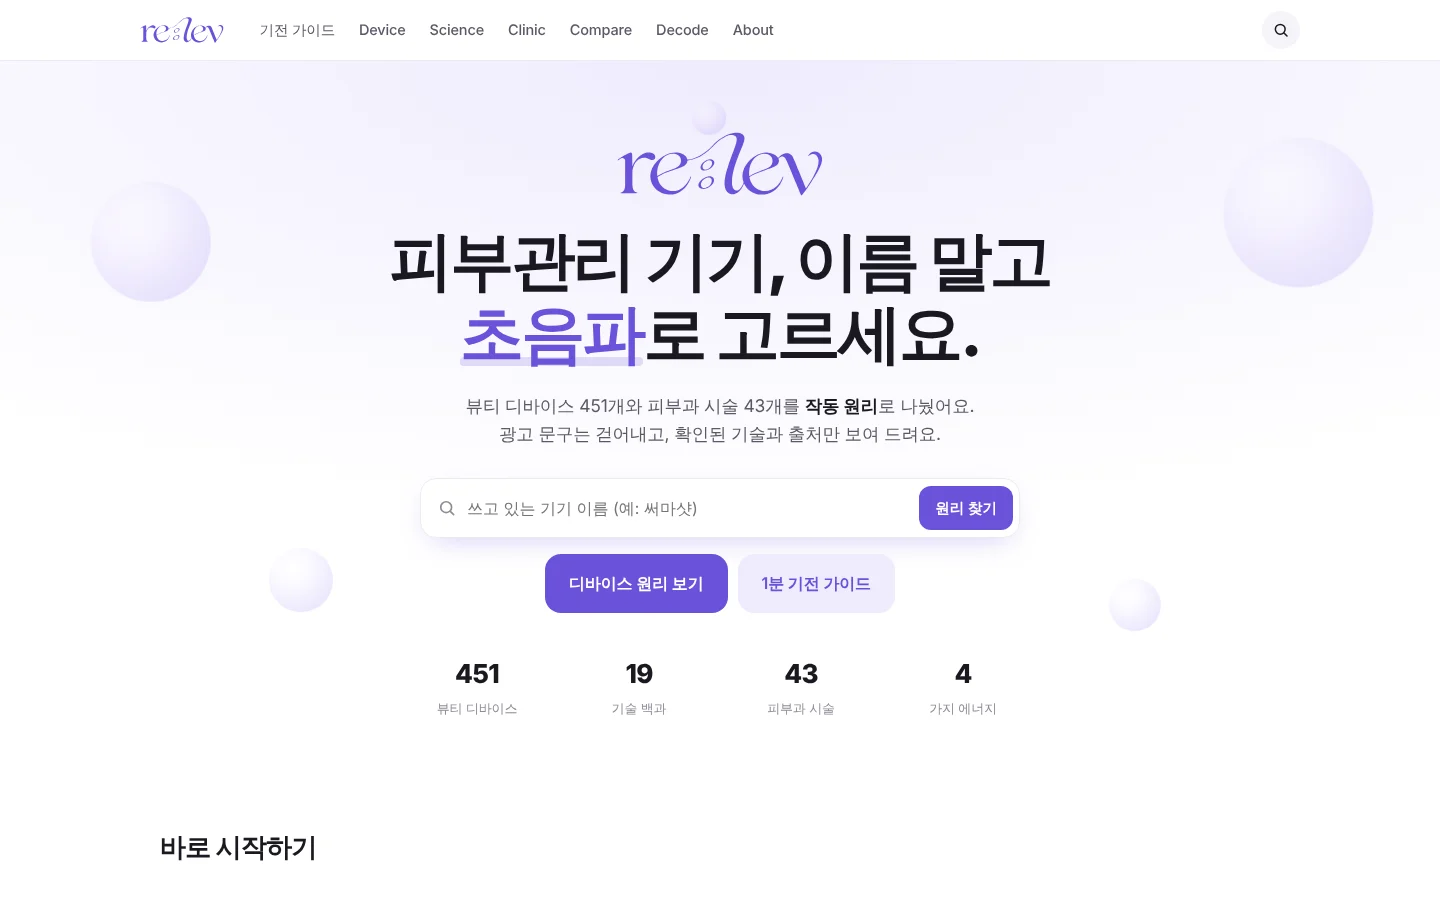
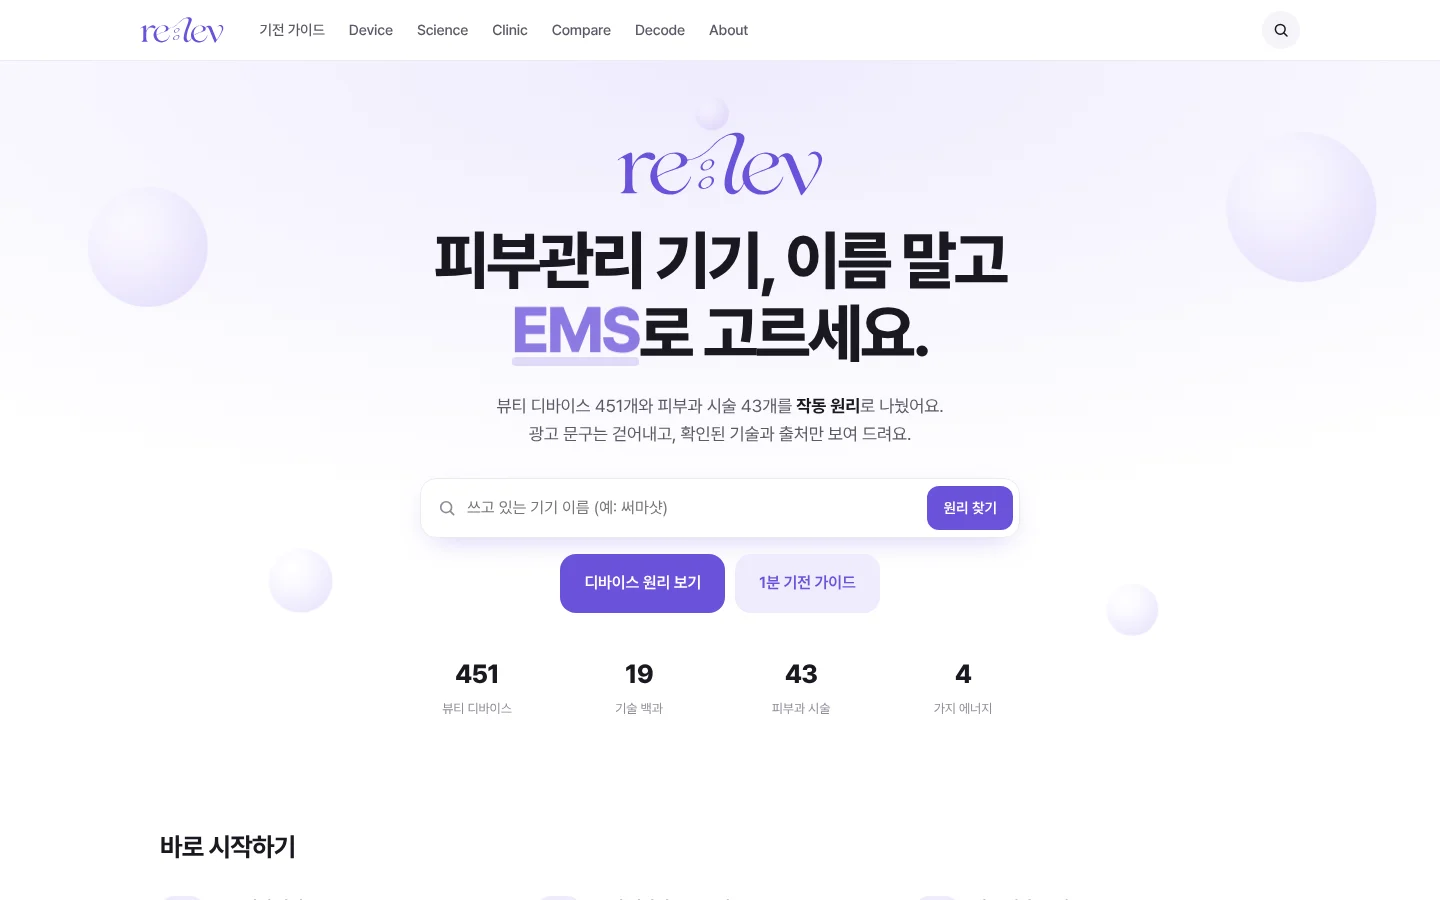
RE:LEV card: recapture with Pretendard loaded
Claude-Session: https://claude.ai/code/session_014BqGhY4ErY7f5qsFQT5aby

diff --git a/index.html b/index.html
@@ -170,7 +170,7 @@
       </article>
 
       <article class="case">
-        <div class="case__visual"><img decoding="async" src="assets/work/relev/card.webp?v=2" alt="RE:LEV 메인 화면 — 광고 말고 원리로, 똑똑하게 고르는 피부관리" loading="lazy"><span class="case__status"></span></div>
+        <div class="case__visual"><img decoding="async" src="assets/work/relev/card.webp?v=3" alt="RE:LEV 메인 화면 — 광고 말고 원리로, 똑똑하게 고르는 피부관리" loading="lazy"><span class="case__status"></span></div>
         <div class="case__info">
           <p class="case__no">CHART 03 — SIDE PROJECT</p>
           <h3 class="case__title">RE:LEV <em>Beauty-Tech Web Service</em></h3>

diff --git a/work/studiokhun.html b/work/studiokhun.html
@@ -187,7 +187,7 @@
       </ul>
       <ul class="kw-works">
         <li class="kw-work">
-          <a class="kw-work__img" href="https://relev.kr" target="_blank" rel="noopener"><img decoding="async" src="../assets/work/relev/card.webp?v=2" alt="RE:LEV 메인 화면" loading="lazy"></a>
+          <a class="kw-work__img" href="https://relev.kr" target="_blank" rel="noopener"><img decoding="async" src="../assets/work/relev/card.webp?v=3" alt="RE:LEV 메인 화면" loading="lazy"></a>
           <div class="kw-work__info">
             <p class="kw-work__no">RE: 01 · BEAUTY TECH · WEB SERVICE</p>
             <h3>RE:LEV</h3>
